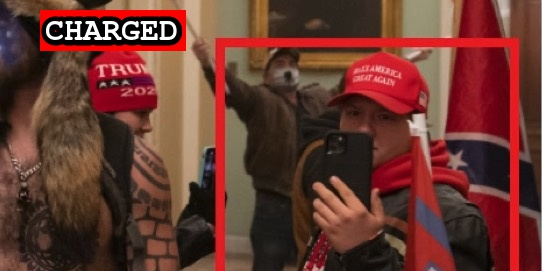
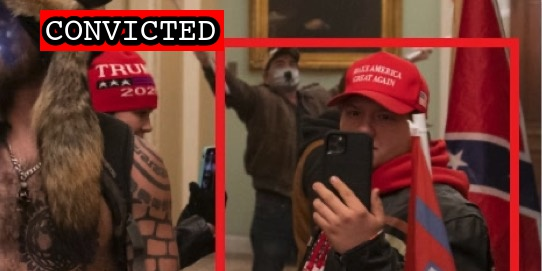
Latest guilty pleas

Changed region(s): [[0.059, 0.0295, 0.4133, 0.2066]]

diff --git a/docs/_suspects/nolan-kidd.md b/docs/_suspects/nolan-kidd.md
@@ -4,15 +4,15 @@ lastName: Kidd
 hashtag: NolanKidd
 aka:
 residence: Georgia
-status: Charged
+status: Convicted
 date: 2021-06-11
 charged: 2021-06-11
 indicted:
-convicted: 
+convicted: 2022-01-07
 sentenced: 
 dismissed: 
 deceased:
-plea_hearing:
+plea_hearing: 2022-01-07
 sentencing:
 age:
 occupation:
@@ -34,8 +34,13 @@ published: true
 caseNumber: 1:21-cr-429
 videos:
 charges:
+- code: 18 USC § 5104(e)(2)(G)
+  title: Parading, demonstrating or picketing in a Capitol building
+  url: https://www.law.cornell.edu/uscode/text/40/5104
+  felony: false
 sentence:
 ---
 - [News Report](https://www.emptywheel.net/2021/06/15/the-delayed-trespassing-charges-against-savanah-mcdonald-and-nolan-kidd/)
-- [Statement of Facts](https://www.justice.gov/usao-dc/case-multi-defendant/file/1404531/download)
-- [Information](https://extremism.gwu.edu/sites/g/files/zaxdzs2191/f/Savannah%20McDonald%20and%20Nolan%20Kidd%20Information.pdf)
+- [Statement of Facts](https://www.justice.gov/usao-dc/case-multi-defendant/file/1470041/download)
+- [Information](https://www.justice.gov/usao-dc/case-multi-defendant/file/1410706/download)
+- [Plea Agreement](https://www.justice.gov/usao-dc/case-multi-defendant/file/1470036/download)

diff --git a/docs/_suspects/stephen-baker.md b/docs/_suspects/stephen-baker.md
@@ -4,15 +4,15 @@ lastName: Baker
 hashtag: StephenIgnoramus
 aka: Stephen Ignoramus
 residence: North Carolina
-status: Charged
+status: Convicted
 date: 2021-02-01
 charged: 2021-02-01
 indicted:
-convicted:
+convicted: 2022-01-07
 sentenced:
 dismissed:
 deceased:
-plea_hearing:
+plea_hearing: 2022-01-07
 sentencing:
 age: 32
 occupation: Music Teacher
@@ -34,9 +34,14 @@ published: true
 caseNumber: 1:21-cr-273
 videos:
 charges:
+- code: 18 USC § 5104(e)(2)(G)
+  title: Parading, demonstrating or picketing in a Capitol building
+  url: https://www.law.cornell.edu/uscode/text/40/5104
+  felony: false
 sentence:
 ---
 - [News Report](https://www.newsobserver.com/news/politics-government/article248921789.html)
 - [Complaint](https://www.justice.gov/file/1362776/download)
-- [Statement of Facts](https://www.justice.gov/opa/page/file/1362776/download)
+- [Statement of Facts](https://www.justice.gov/usao-dc/case-multi-defendant/file/1470031/download)
 - [Information](https://www.justice.gov/usao-dc/case-multi-defendant/file/1384336/download)
+- [Plea Agreement](https://www.justice.gov/usao-dc/case-multi-defendant/file/1470026/download)
